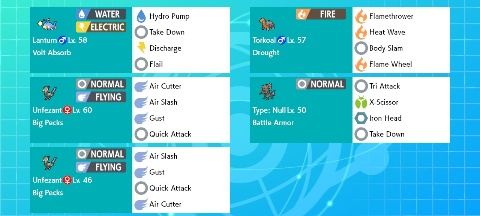
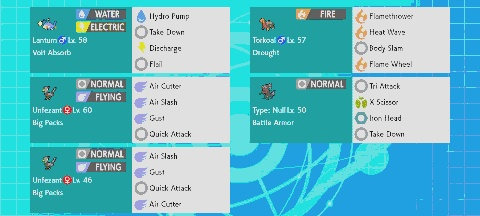
ポケモンを囲んでいる枠の輪郭を検出

diff --git a/src/main.py b/src/main.py
@@ -1,6 +1,10 @@
 import cv2
 SAMPLE_DEFAULT_IMAGE = "./image_model/pkmn_rental_party_5.jpeg"
 OUTPUT_IMAGE_WIDTH = 480
+THRESHOLD_CONTOUR_AREA = 500
+
+def isShowRectangle(rect):
+    return cv2.contourArea(rect) >= THRESHOLD_CONTOUR_AREA
 
 def resizeImageKeepAspectRatio(width, img):
     height = int(width / img.shape[1] * img.shape[0])
@@ -26,6 +30,7 @@ pkmnImg = cv2.imread(SAMPLE_DEFAULT_IMAGE)
 resizeImg = resizeImageKeepAspectRatio(width = OUTPUT_IMAGE_WIDTH, img = pkmnImg)
 decreaseRgbOfImg(resizeImg)
 
+# 画像のリサイズ
 # img[top : bottom, left : right]
 resizeImgHeight = resizeImg.shape[0]
 footerTopY = int(resizeImgHeight * 4 / 5)
@@ -36,11 +41,19 @@ cv2.imwrite("./output/cropped_trainer_id.jpeg", croppedTrainerIdImg)
 
 # グレースケール変換
 croppedPkmnPartyGrayImg = cv2.cvtColor(croppedPkmnPartyImg, cv2.COLOR_BGR2GRAY)
-cannyImg = cv2.Canny(croppedPkmnPartyGrayImg, 50, 100)
-# cv2.namedWindow("croppedPkmnPartyGrayImg")
-# cv2.imshow("croppedPkmnPartyGrayImg", croppedPkmnPartyGrayImg)
-cv2.namedWindow("cannyImg")
-cv2.imshow("cannyImg", cannyImg)
+# 画像の二値化
+thImg = cv2.threshold(croppedPkmnPartyGrayImg, 123 , 255, cv2.THRESH_BINARY)[1]
+# 輪郭抽出
+contours, hierarchies = cv2.findContours(thImg, cv2.RETR_TREE, cv2.CHAIN_APPROX_SIMPLE)
+
+for rect, hierarchy in zip(contours, hierarchies[0]):
+    if not isShowRectangle(rect) or hierarchy[3] == -1:
+        continue
+    x, y, w, h = cv2.boundingRect(rect)
+    cv2.rectangle(croppedPkmnPartyImg, (x, y), (x + w, y + h), (0, 0, 255), 2)
+
+cv2.namedWindow("sample")
+cv2.imshow("sample", croppedPkmnPartyImg)
 
 cv2.waitKey(0)
 cv2.destroyAllWindows()
